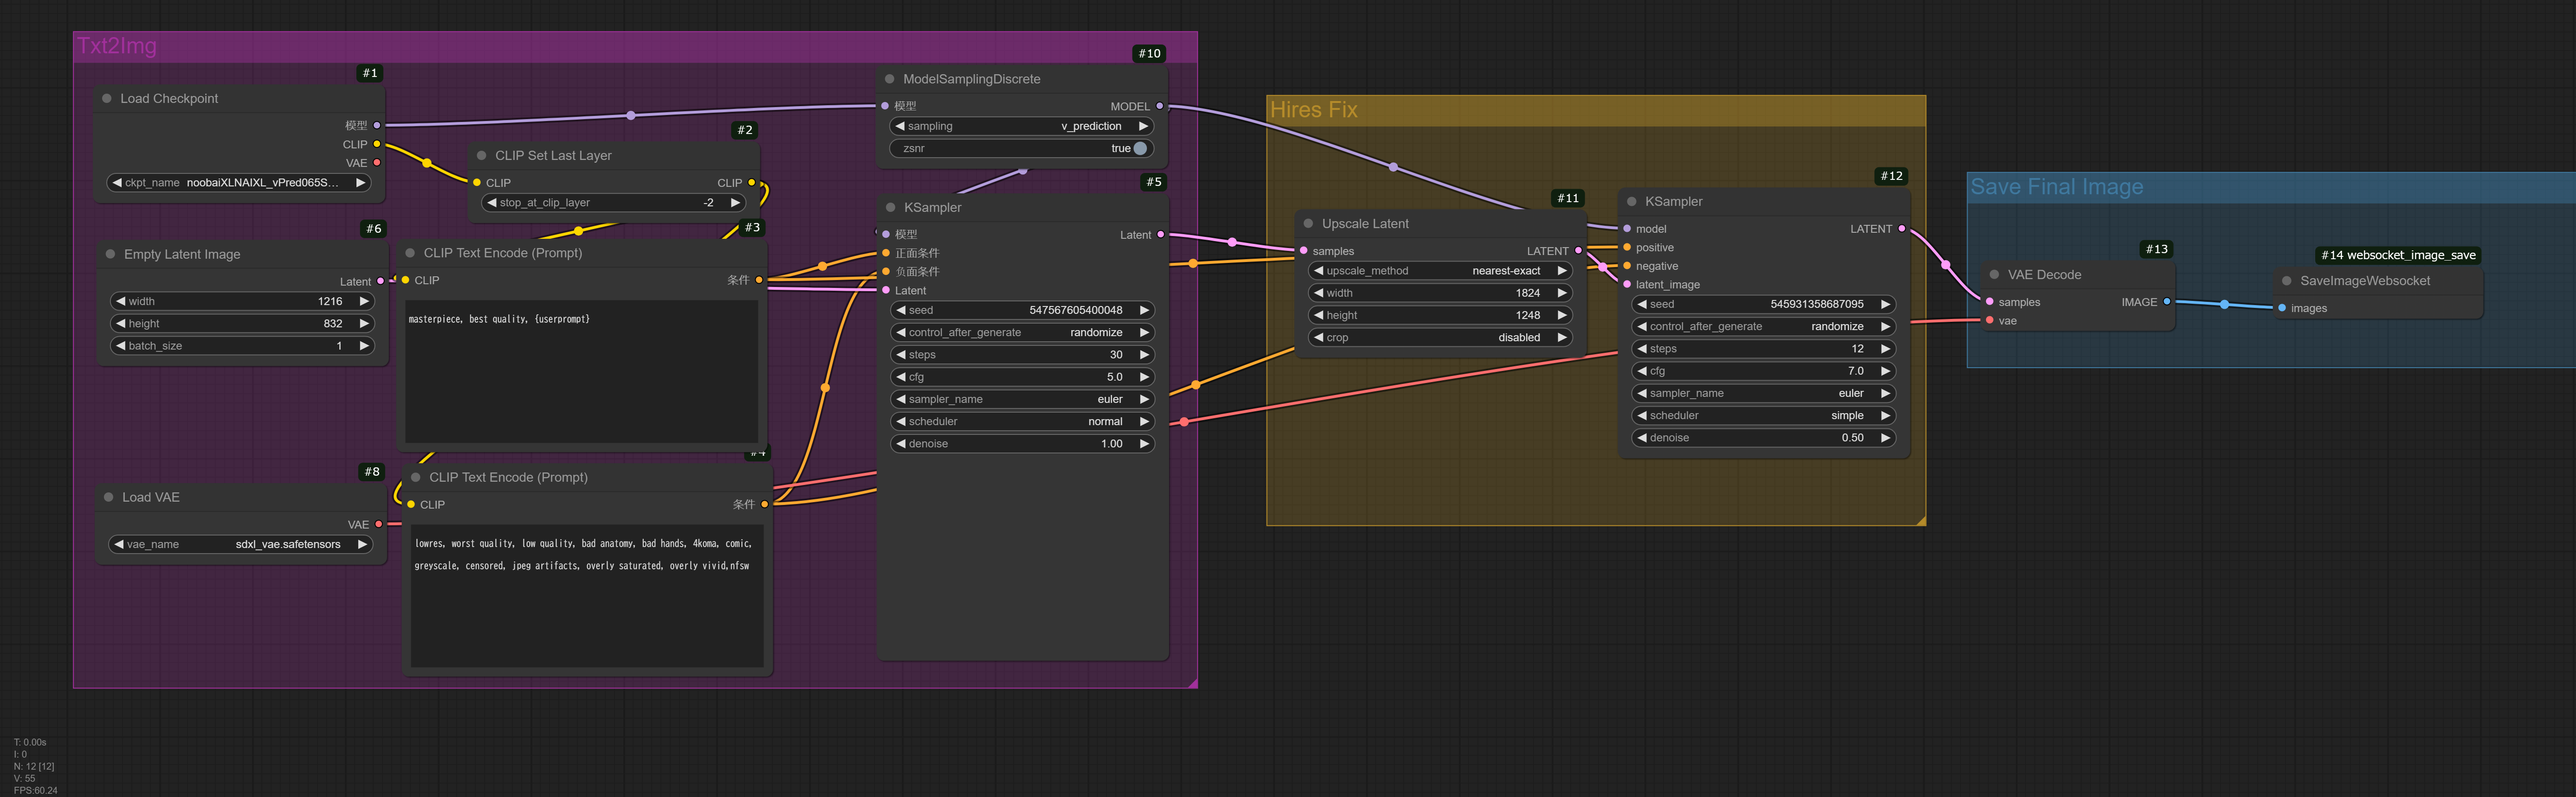
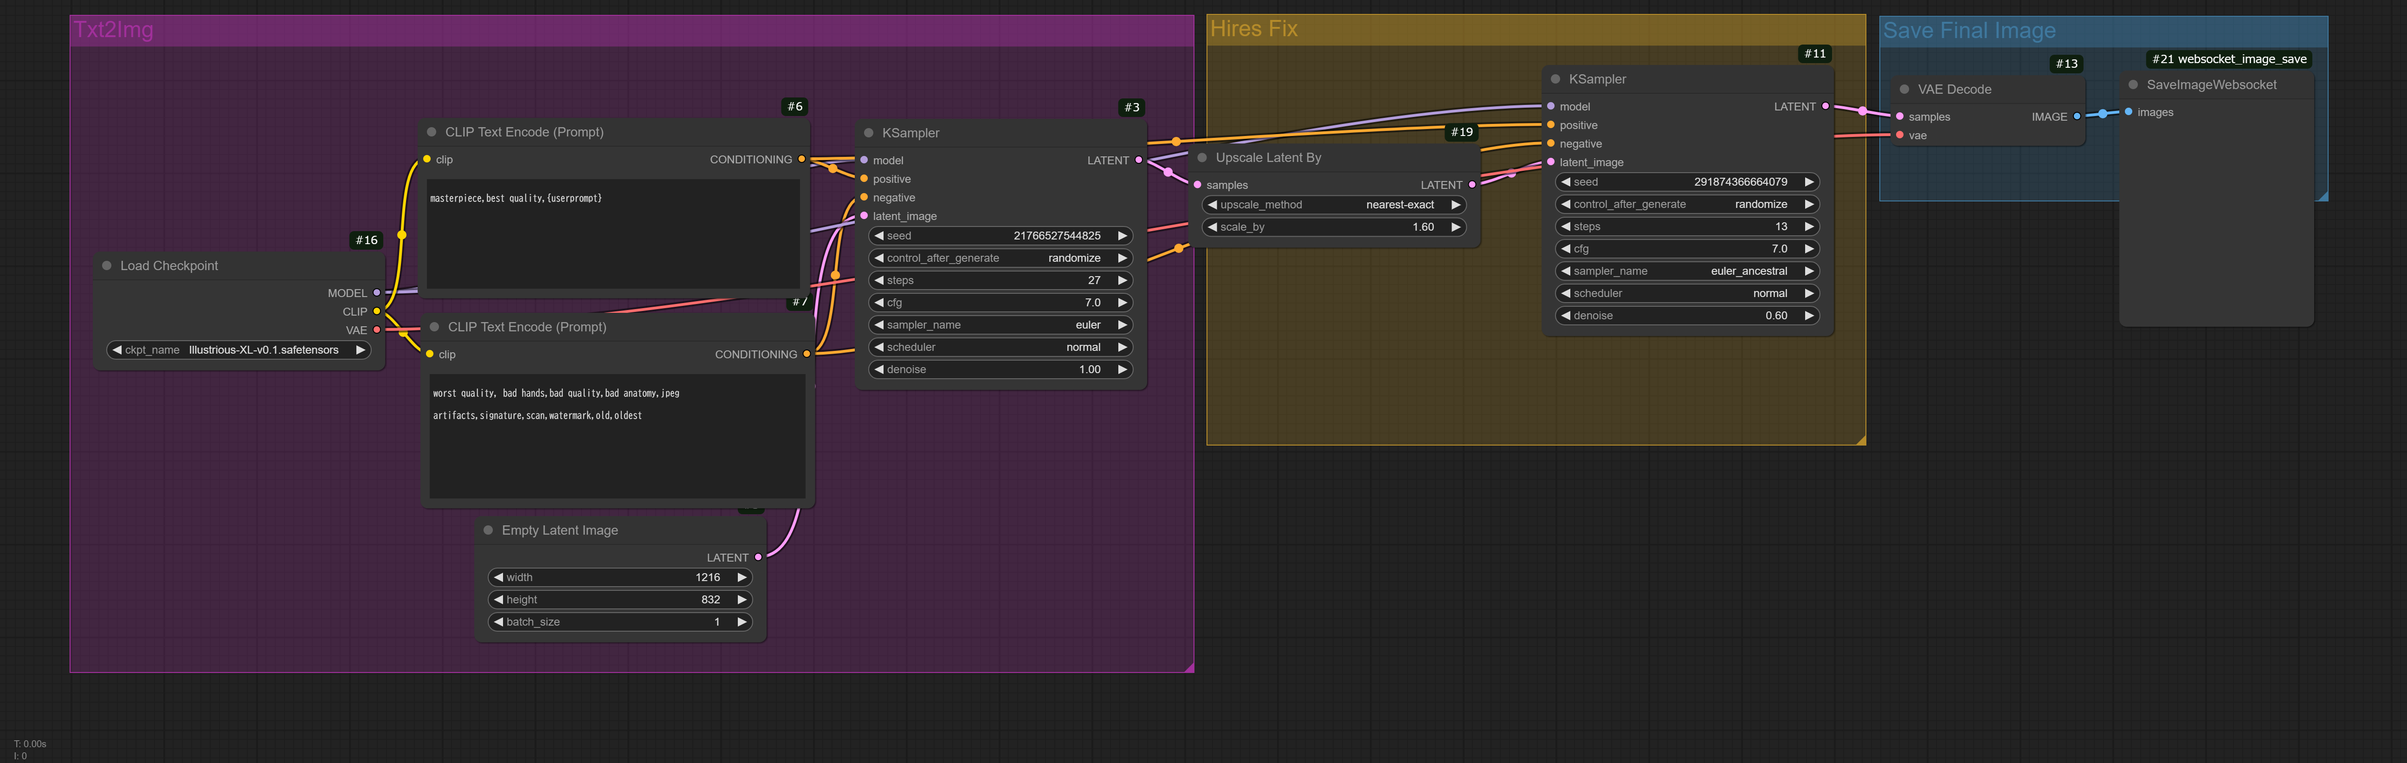
Update prompt with user data

Changed region(s): [[0.0312, 0.0, 1.0, 0.8996], [0.0, 0.9617, 0.0312, 1.0]]

diff --git a/main.py b/main.py
@@ -36,7 +36,7 @@ def get_images(ws, prompt, server_address, client_id):
                     else:
                         current_node = data["node"]
         else:
-            if current_node == "14":
+            if current_node == "21":
                 images_output = output_images.get(current_node, [])
                 images_output.append(out[8:])
                 output_images[current_node] = images_output
@@ -109,11 +109,11 @@ def main_prosess(prompt, mode, save_path):
 
     # ===Update prompt with user data===
 
-    prompt["3"]["inputs"]["text"] = prompt["3"]["inputs"]["text"].format(
+    prompt["6"]["inputs"]["text"] = prompt["6"]["inputs"]["text"].format(
         userprompt=data["prompt"]
     )
-    prompt["5"]["inputs"]["seed"] = data["seed"][0]
-    prompt["12"]["inputs"]["seed"] = data["seed"][1]
+    prompt["3"]["inputs"]["seed"] = data["seed"][0]
+    prompt["11"]["inputs"]["seed"] = data["seed"][1]
 
     # =======================
 

diff --git a/README.md b/README.md
@@ -25,7 +25,7 @@ time python main.py --mode 1 --prompt "Yumekawa Tenshi's cute angel is flying in
 ```
 NVIDIA L40S
 ```
-
+{userprompt}
 ```
 
 ### Portait
